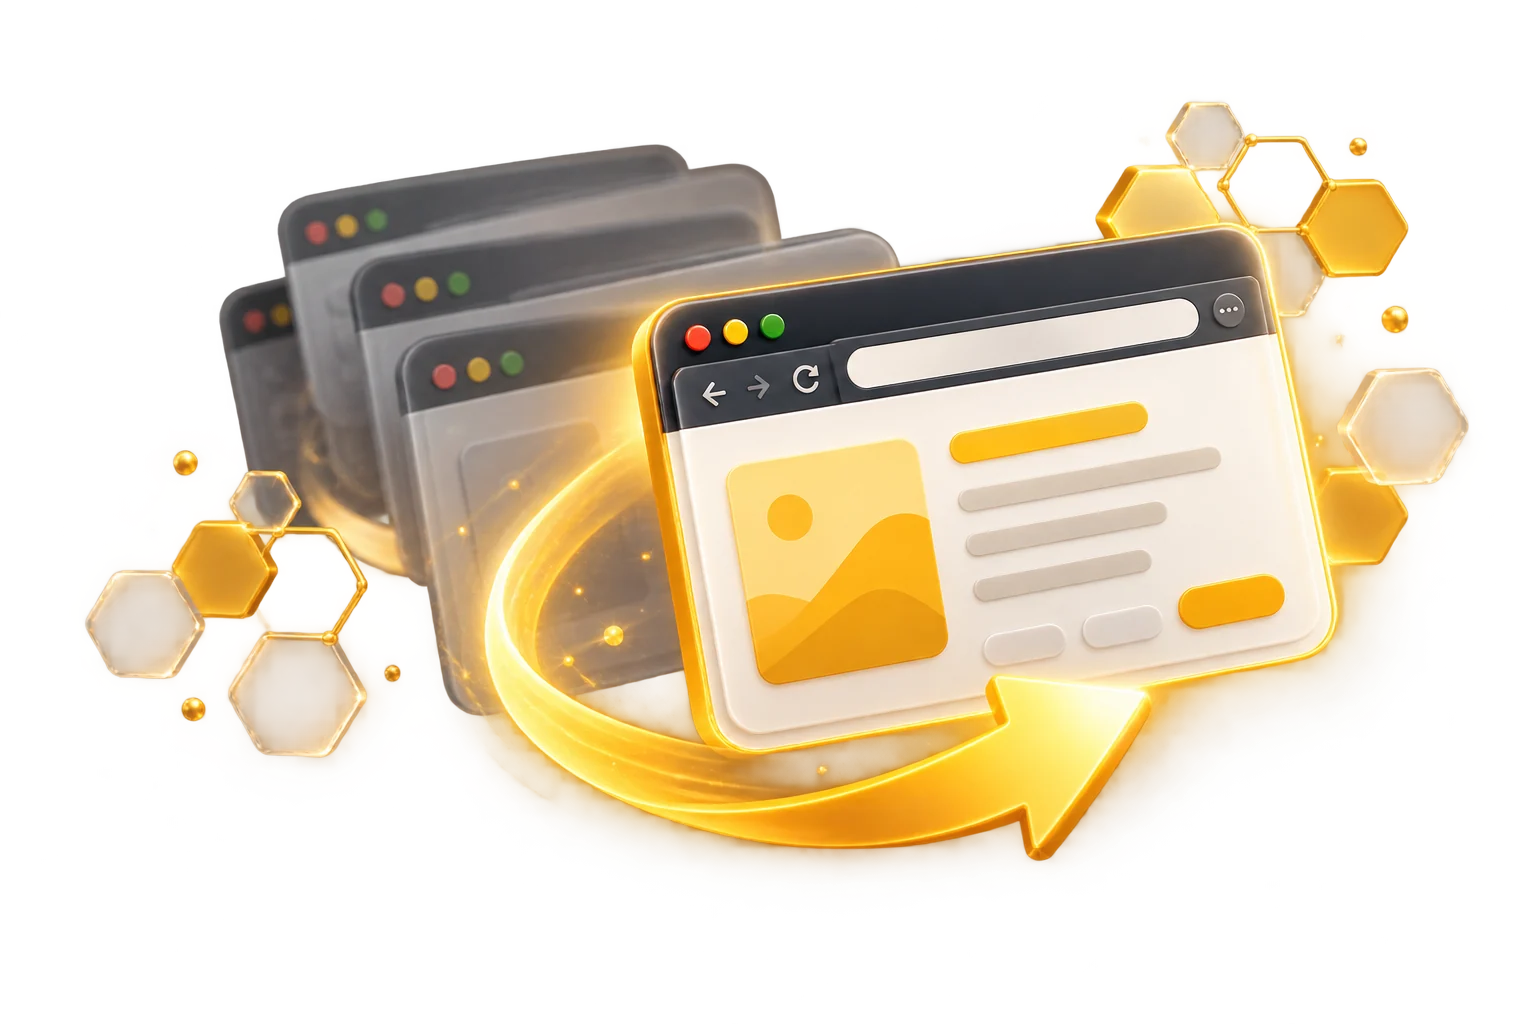
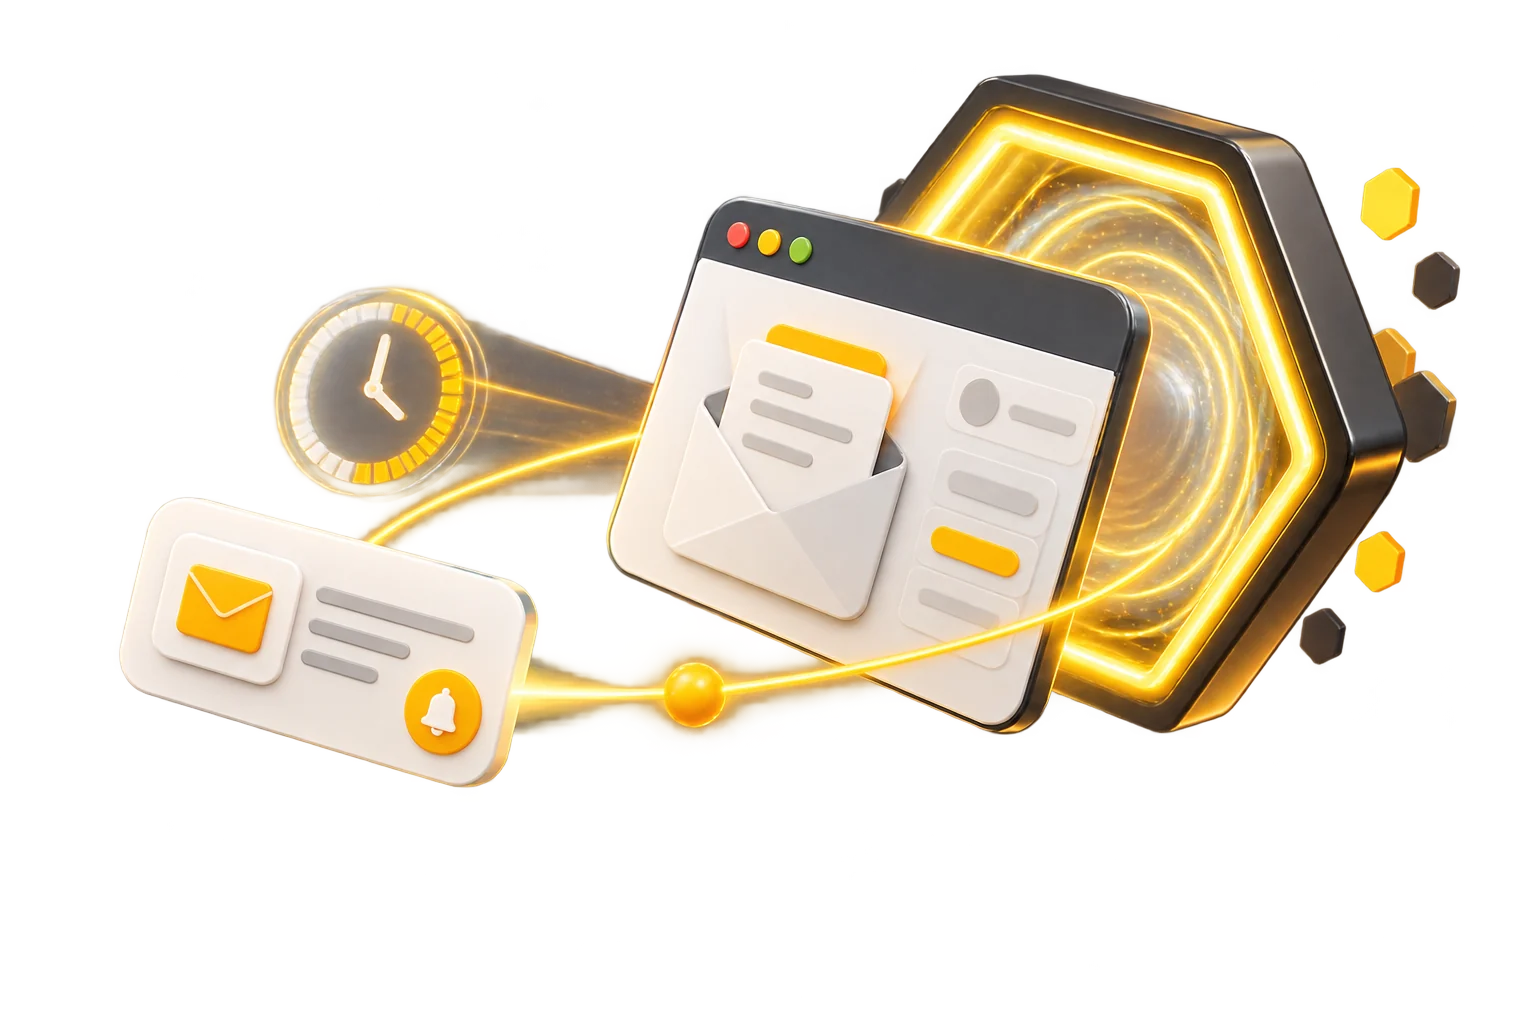
Use selected Auto Return artwork for blog

diff --git a/api/blog-article.js b/api/blog-article.js
@@ -14,7 +14,7 @@ const ARTICLES = {
     articleSection: "Productivity",
     keywords: ["out of sight out of mind", "forgotten tasks", "visual reminders", "browser productivity", "Auto Return", "ADHD object permanence"],
     bodyHtml: `
-      <figure class="article-cover-image"><img src="/assets/images/blog/out-of-sight/cover.webp" alt="A saved browser task returning to the front of faded tabs along a glowing yellow path" width="1536" height="1024" decoding="async" loading="eager" fetchpriority="high" /></figure>
+      <figure class="article-cover-image"><img src="/assets/images/blog/out-of-sight/cover.webp" alt="A saved email task returning through a glowing yellow Auto Return portal" width="1536" height="1024" decoding="async" loading="eager" fetchpriority="high" /></figure>
       <div class="article-lead is-revealed" data-article-section>
         <p>You open an email that needs a thoughtful reply.</p>
         <p>You find a course you want to continue, a form you need to complete, or a document you should review before Friday.</p>

diff --git a/js/blog.js b/js/blog.js
@@ -13,10 +13,10 @@
       author: "Luzora Team",
       cardImage: "/assets/images/blog/out-of-sight/cover.webp",
       socialImage: "/assets/images/blog/out-of-sight/og.webp",
-      cardImageAlt: "A saved browser task returning to the front of faded tabs along a glowing yellow path",
+      cardImageAlt: "A saved email task returning through a glowing yellow Auto Return portal",
       coverImage: {
         src: "/assets/images/blog/out-of-sight/cover.webp",
-        alt: "A saved browser task returning to the front of faded tabs along a glowing yellow path",
+        alt: "A saved email task returning through a glowing yellow Auto Return portal",
         width: 1536,
         height: 1024
       },
